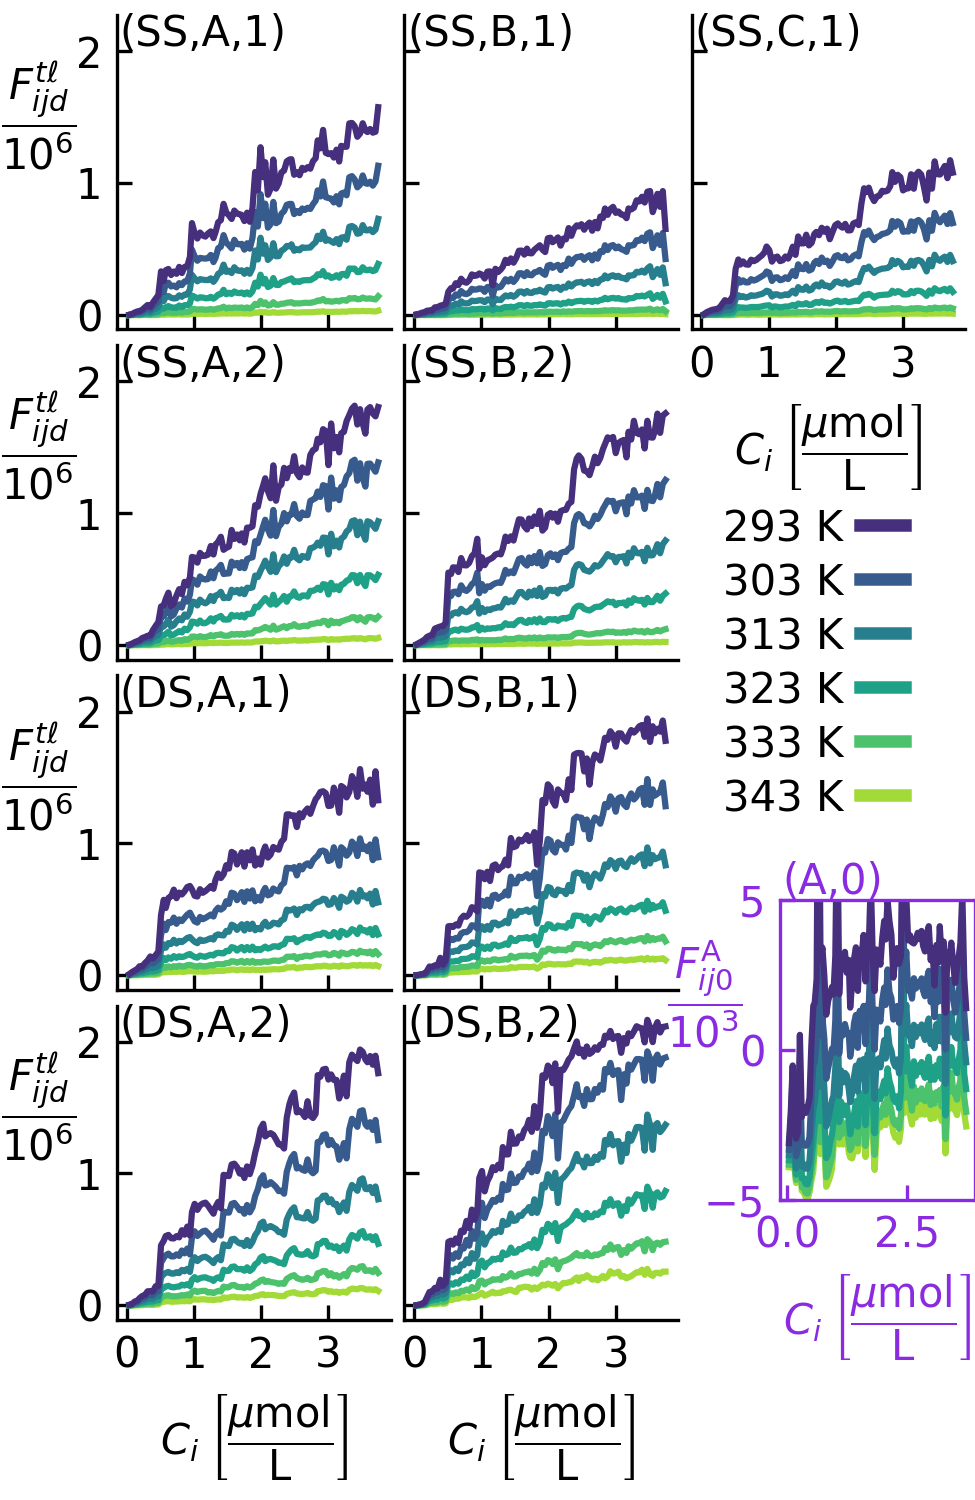
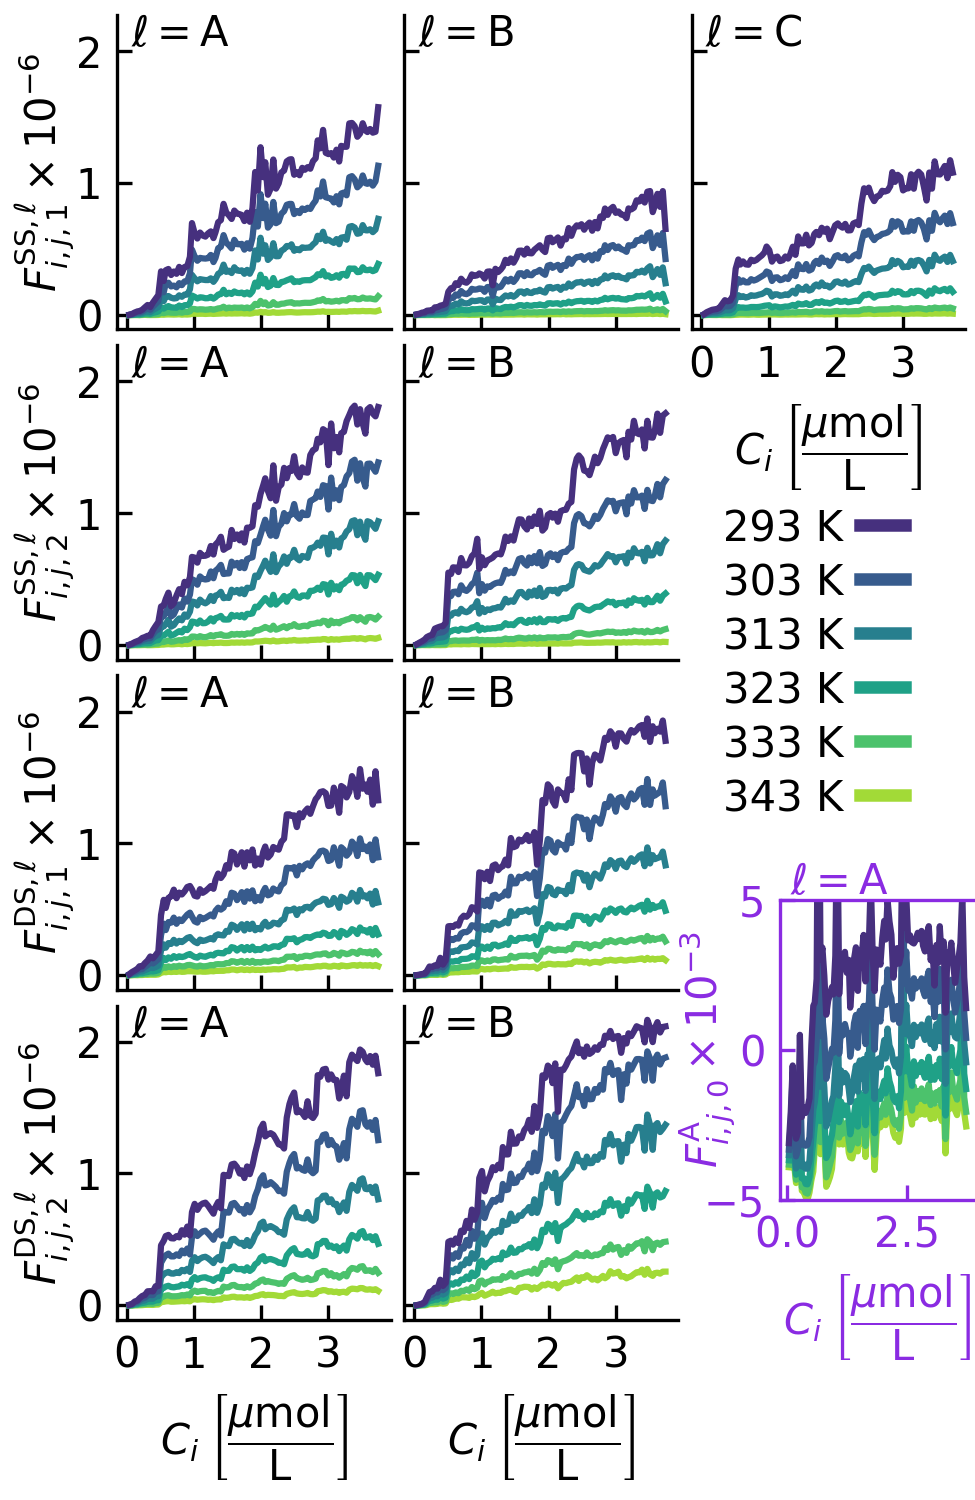
Plot F_ijd with commas in b/t subscripts

diff --git a/src/plot_raw_data.py b/src/plot_raw_data.py
@@ -59,10 +59,10 @@ def make_figure_S1():
     fig, ax = plt.subplots(sharex=True, sharey=True, figsize=(3.25, 3.25))
     plot_linemap(pluto_plateA_rot, ax)
 
-    label_kwargs = dict(rotation=0, labelpad=12)
+    # label_kwargs = dict(rotation=0, labelpad=12)
     ax.spines['right'].set_visible(False)
     ax.spines['top'].set_visible(False)
-    ax.set_ylabel(r"$\dfrac{F_{ijd}^{t\ell}}{10^6}$", **label_kwargs)
+    ax.set_ylabel(r"$F_{i,j,2}^{\mathrm{SS},\alpha}\times 10^{-6}$")  #, **label_kwargs)
     ax.tick_params(direction='in')
     ax.set_xlabel(concentration_label)
     ax.set_ylim([0., 0.3])
@@ -122,8 +122,8 @@ def make_figure_S2():
     # axes[0].annotate("(a)", xy=(0.05, 0.9), xycoords='axes fraction')
     # axes[1].annotate("(b)", xy=(0.05, 0.9), xycoords='axes fraction')
 
-    label_kwargs = dict(rotation=0, labelpad=10)
-    ax.set_ylabel(r"$\dfrac{\Delta F_{ijd}^{t\ell}}{10^6}$", **label_kwargs)
+    # label_kwargs = dict(rotation=0, labelpad=10)
+    ax.set_ylabel(r"$\Delta F_{i,j,2}^{\mathrm{SS}} \times 10^{-6}$") #, **label_kwargs)
     cax = fig.add_axes([0.94, 0.17, 0.05, 0.75])
     for d in ('right', 'left', 'bottom', 'top'):
         cax.spines[d].set_visible(False)
@@ -150,19 +150,18 @@ def make_figure_2(
     DS_B_2: RawData, 
     A_1: RawData):
     """Makes Figure 2"""
-    ylabel = r"$\dfrac{F_{ijd}^{t\ell}}{10^6}$"
 
     # plot heatmaps
     figs, axes = plt.subplots(ncols=3, nrows=4, sharex=True, sharey=True, figsize=(3.25, 5.0))
-    label_kwargs = dict(rotation=0, labelpad=9)
+    label_kwargs = dict(labelpad=0)
 
-    axes[0, 0].annotate("(SS,A,1)", xy=(0.01, 0.9), xycoords='axes fraction')
-    axes[0, 0].set_ylabel(ylabel, **label_kwargs)
-    axes[0, 1].annotate("(SS,B,1)", xy=(0.01, 0.9), xycoords='axes fraction')
-    axes[1, 0].set_ylabel(ylabel, **label_kwargs)
-    axes[0, 2].annotate("(SS,C,1)", xy=(0.01, 0.9), xycoords='axes fraction')
-    axes[2, 0].set_ylabel(ylabel, **label_kwargs)
-    axes[3, 0].set_ylabel(ylabel, **label_kwargs)
+    axes[0, 0].annotate("$\\ell = \\mathrm{A}$", xy=(0.05, 0.9), xycoords='axes fraction')
+    axes[0, 0].set_ylabel(r"$F_{i,j,1}^{\mathrm{SS},\ell}\times 10^{-6}$", **label_kwargs)
+    axes[0, 1].annotate("$\\ell =\\mathrm{B}$", xy=(0.05, 0.9), xycoords='axes fraction')
+    axes[1, 0].set_ylabel(r"$F_{i,j,2}^{\mathrm{SS},\ell}\times 10^{-6}$", **label_kwargs)
+    axes[0, 2].annotate("$\\ell = \\mathrm{C}$", xy=(0.05, 0.9), xycoords='axes fraction')
+    axes[2, 0].set_ylabel(r"$F_{i,j,1}^{\mathrm{DS},\ell}\times 10^{-6}$", **label_kwargs)
+    axes[3, 0].set_ylabel(r"$F_{i,j,2}^{\mathrm{DS},\ell}\times 10^{-6}$", **label_kwargs)
 
     for irow in range(axes.shape[0]):
         for icol in range(axes.shape[1]):
@@ -174,9 +173,9 @@ def make_figure_2(
     plot_linemap(SS_B_1, axes[0, 1])
     plot_linemap(SS_C_1, axes[0, 2])
     plot_linemap(SS_A_2, axes[1, 0])
-    axes[1, 0].annotate("(SS,A,2)", xy=(0.01, 0.9), xycoords='axes fraction')
+    axes[1, 0].annotate("$\\ell = \\mathrm{A}$", xy=(0.05, 0.9), xycoords='axes fraction')
     plot_linemap(SS_B_2, axes[1, 1])
-    axes[1, 1].annotate("(SS,B,2)", xy=(0.01, 0.9), xycoords='axes fraction')
+    axes[1, 1].annotate("$\\ell = \\mathrm{B}$", xy=(0.05, 0.9), xycoords='axes fraction')
 
     for i in ((2, 2), (1, 2), (3, 2)):
         for kk in ('left', 'right', 'top', 'bottom'):
@@ -193,36 +192,34 @@ def make_figure_2(
     axes[0, 2].set_xlabel(concentration_label)
 
     plot_linemap(DS_A_1, axes[2, 0])
-    axes[2, 0].annotate("(DS,A,1)", xy=(0.01, 0.9), xycoords='axes fraction')
+    axes[2, 0].annotate("$\\ell = \\mathrm{A}$", xy=(0.05, 0.9), xycoords='axes fraction')
     plot_linemap(DS_B_1, axes[2, 1])
-    axes[2, 1].annotate("(DS,B,1)", xy=(0.01, 0.9), xycoords='axes fraction')
+    axes[2, 1].annotate("$\\ell = \\mathrm{B}$", xy=(0.05, 0.9), xycoords='axes fraction')
     plot_linemap(DS_A_2, axes[3, 0])
-    axes[3, 0].annotate("(DS,A,2)", xy=(0.01, 0.9), xycoords='axes fraction')
+    axes[3, 0].annotate("$\\ell = \\mathrm{A}$", xy=(0.05, 0.9), xycoords='axes fraction')
     plot_linemap(DS_B_2, axes[3, 1])
-    axes[3, 1].annotate("(DS,B,2)", xy=(0.01, 0.9), xycoords='axes fraction')
+    axes[3, 1].annotate("$\\ell = \\mathrm{B}$", xy=(0.05, 0.9), xycoords='axes fraction')
 
     ax_nodna = figs.add_axes([0.8, 0.2, 0.2, 0.2])
     c = 'blueviolet'
     # ax_nodna = axes[3, 2]
-    ax_nodna.annotate("(A,0)", xy=(0.01, 1.02), xycoords='axes fraction', color=c)
+    ax_nodna.annotate("$\\ell = \\mathrm{A}$", xy=(0.05, 1.02), xycoords='axes fraction', color=c)
     # ax_nodna.spines['left'].set_visible(False)
     # plt.setp(ax_nodna.get_xticklabels(), visible=True)
     ax_nodna.tick_params(labelbottom=True)
     # ax = ax_nodna.twinx()
     # ax.tick_params(axis='y', labelcolor=c, color=c)
     ax_nodna.tick_params(axis='both', labelcolor=c, color=c)
-    ax_nodna.spines['right'].set_color(c)
+    ax_nodna.spines['right'].set_visible(False)
     ax_nodna.spines['top'].set_color(c)
     # ax.arrow(2., 11, 1., 0., color=c, length_includes_head=True, 
     #          width=1.e-4, head_width=1, head_length=0.2)
     ax_nodna.spines['bottom'].set_color(c)
     ax_nodna.spines['left'].set_color(c)
-    ax_nodna.spines['bottom'].set_color(c)
     A_1.F = A_1.F*1000.
     plot_linemap(A_1, ax_nodna)
-    ylabel = r"$\frac{F_{ijd}^{t\ell}}{10^6}$"
-    ax_nodna.set_ylabel(r"$\dfrac{F_{ij0}^\mathrm{A}}{10^3}$", color=c, 
-                        rotation=0, labelpad=0)
+    ax_nodna.set_ylabel(r"$F_{i,j,0}^\mathrm{A} \times 10^{-3}$", color=c, labelpad=-8)
+                        
 
     ax_nodna.set_ylim([-5., 5.])
     ax_nodna.set_xlabel(concentration_label, color=c)
